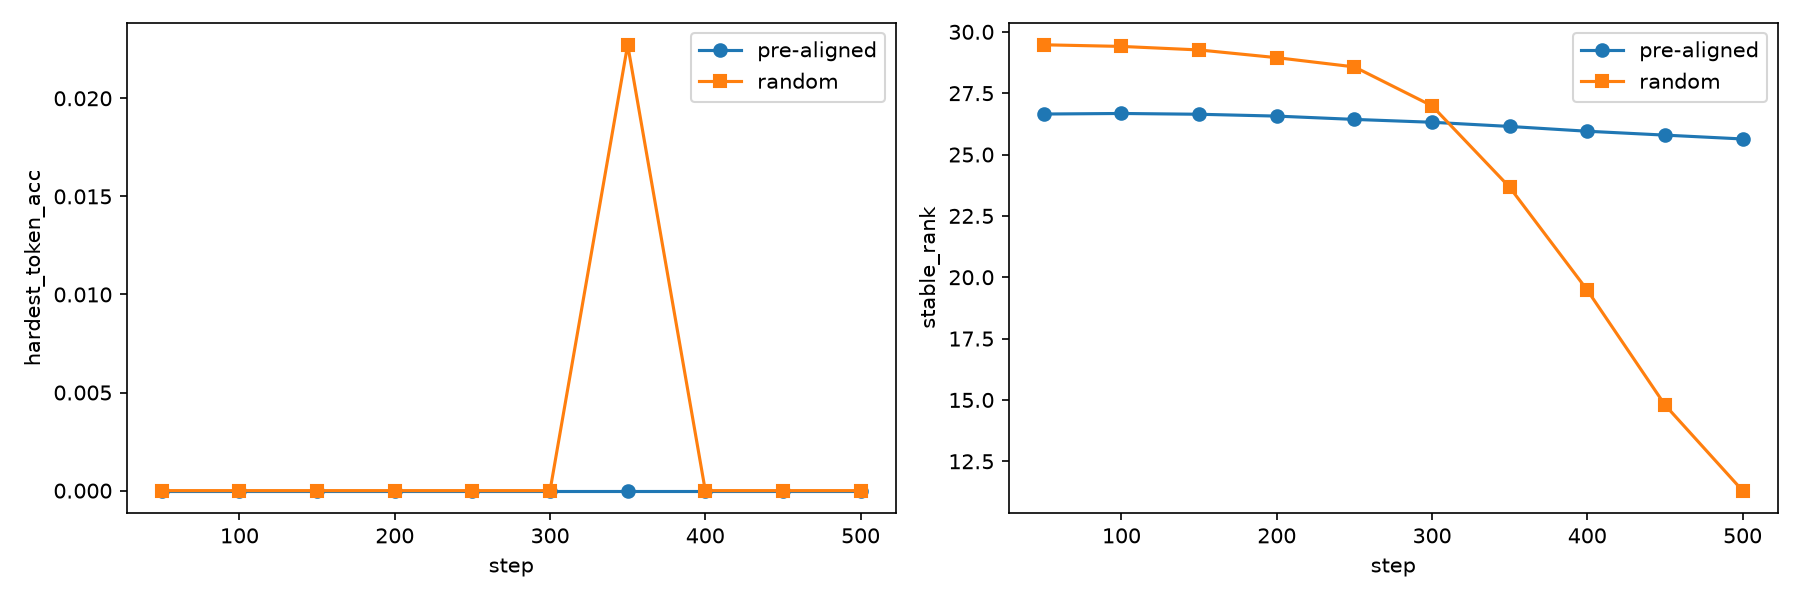
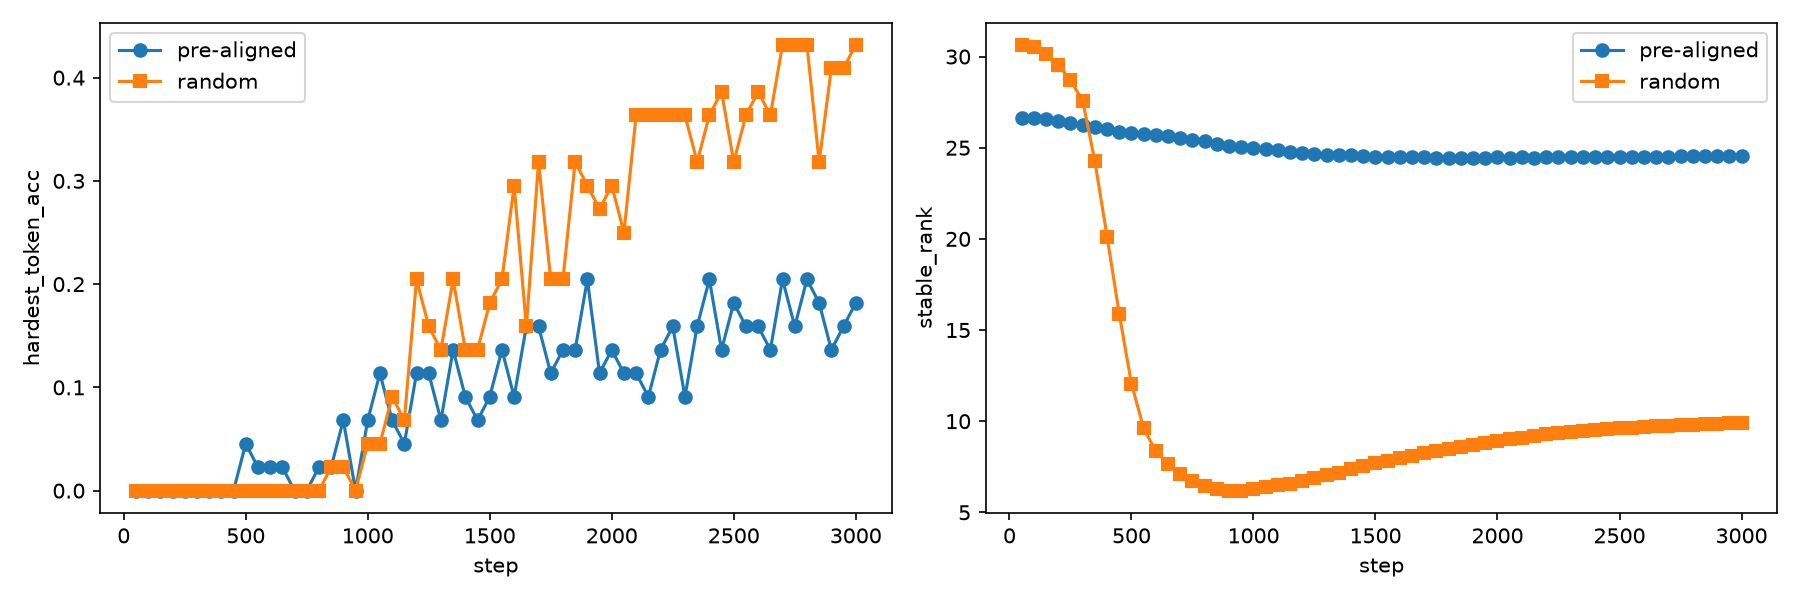
manually submit

diff --git a/tests/smoke_test.py b/tests/smoke_test.py
@@ -53,6 +53,80 @@ run_deepwalk_seme = seme_deepwalk_mod.run_deepwalk_seme
 validate_pretrained_embeddings_seme = seme_deepwalk_mod.validate_pretrained_embeddings_seme
 
 
+def validate_deepwalk_hop(emb_matrix, vocab, graph, n_samples=3000, maxd=6):
+    """义素图适用的 DeepWalk 校验：按图跳数分层的嵌入余弦相似度。
+
+    为什么需要它：validate_pretrained_embeddings_seme 的 arm_cluster_acc 为
+    单臂 path-star 设计（每节点只属一条臂）；义素超立方体的节点被 4 条链
+    共享（root 被 256 条共享），单标签 argmax 的期望 acc ≈ 1/4.98 = 0.201
+    ——与嵌入质量无关（2026-10-14 诊断实测 0.201，恰为算术必然）。
+
+    义素图语义：相邻节点（hop-1）嵌入应相似，距离越远相似度越低。
+    判定：hop-1 平均余弦相似度显著高于远端（hop-6+）且差 > 0.05。
+    """
+    from collections import deque
+    adj = {}
+    for u, v in graph["edges_forward"] + graph["edges_reverse"]:
+        adj.setdefault(u, set()).add(v)
+        adj.setdefault(v, set()).add(u)
+
+    def hop_dist(a, b):
+        if a == b:
+            return 0
+        seen, q = {a}, deque([(a, 0)])
+        while q:
+            cur, d = q.popleft()
+            if d >= maxd:
+                break
+            for nb in adj.get(cur, ()):
+                if nb == b:
+                    return d + 1
+                if nb not in seen:
+                    seen.add(nb)
+                    q.append((nb, d + 1))
+        return maxd  # 截断视为远端
+
+    node_ids = [vocab["token2id"][t] for t in graph["node_tokens"]]
+    E = emb_matrix[node_ids].copy()
+    norms = np.linalg.norm(E, axis=1, keepdims=True)
+    E = E / np.maximum(norms, 1e-12)
+
+    toks = graph["node_tokens"]
+    rng = np.random.default_rng(0)
+    by_hop = {h: [] for h in range(1, maxd + 1)}
+    for _ in range(n_samples):
+        i, j = rng.integers(0, len(toks), 2)
+        if i == j:
+            continue
+        by_hop[min(hop_dist(toks[i], toks[j]), maxd)].append(float(E[i] @ E[j]))
+
+    mean_by_hop = {h: (float(np.mean(v)) if v else None) for h, v in by_hop.items()}
+    # 随机嵌入对照（同分布采样）
+    R = rng.standard_normal((len(toks), E.shape[1])).astype(np.float32)
+    Rn = np.linalg.norm(R, axis=1, keepdims=True)
+    R = R / np.maximum(Rn, 1e-12)
+    rand_hop1 = []
+    for _ in range(n_samples):
+        i, j = rng.integers(0, len(toks), 2)
+        if i == j:
+            continue
+        if hop_dist(toks[i], toks[j]) == 1:
+            rand_hop1.append(float(R[i] @ R[j]))
+
+    h1 = mean_by_hop[1]
+    far = [m for h, m in mean_by_hop.items() if h >= maxd and m is not None]
+    far_m = float(np.mean(far)) if far else None
+    delta = (h1 - far_m) if (h1 is not None and far_m is not None) else None
+    passed = delta is not None and delta > 0.05
+    return {
+        "mean_cos_by_hop": mean_by_hop,
+        "hop1_minus_far": delta,
+        "random_hop1_mean": float(np.mean(rand_hop1)) if rand_hop1 else None,
+        "threshold": 0.05,
+        "pass": bool(passed),
+    }
+
+
 def smoke_test():
     print("=" * 60)
     print("本地冒烟测试（复用原仓库 + 义素超立方体适配）")
@@ -83,7 +157,10 @@ def smoke_test():
     print(f"[4] 运行 DeepWalk (dim={d_model}) ...")
     dw_emb = run_deepwalk_seme(graph, vocab, d_model=d_model, seed=42)
     val = validate_pretrained_embeddings_seme(dw_emb, vocab, graph)
-    print(f"    嵌入校验: {val}")
+    hop_val = validate_deepwalk_hop(dw_emb, vocab, graph)
+    print(f"    嵌入校验 arm_cluster (名义, 义素图期望≈0.201): {val}")
+    print(f"    嵌入校验 hop (义素图适用): hop1-far={hop_val['hop1_minus_far']:+.4f} "
+          f"pass={hop_val['pass']}")
 
     # ── 模型配置（缩小版）──
     n_layer = 2
@@ -106,7 +183,9 @@ def smoke_test():
     print(f"[6] 训练前 baseline: acc={acc_before:.3f}, sr={sr_before:.2f}, auc={auc_before:.3f}")
 
     # ── 训练（复用原仓库 train.py 的 get_lr + AdamW + MixedBatchSampler）──
-    train_steps = 500
+    # 步数注：path-star 基线需 ~954 步方达 50% hardest acc；义素图更难，
+    # 500 步内 acc 全 0 属预期（2026-10-14 诊断），故加长到 3000 步。
+    train_steps = 3000
     batch_size = 16
     lr_peak = 3e-4
     eval_every = 50
@@ -157,6 +236,7 @@ def smoke_test():
 
     print(f"\n[7] 训练后: acc={acc_after:.3f}, sr={sr_after:.2f}, auc={auc_after:.3f}, "
           f"align={align_after:.3f}")
+    print("    注: auc/alignment_delta 为单臂 path-star 度量，义素图上不按字面判读")
     print(f"    translation_consistency: mean={tc['mean_global_consistency']:.3f}, "
           f"inter_arm_std={tc['inter_arm_angle_std']:.1f}°")
     print(f"    best_acc={best_acc:.3f}")
@@ -219,7 +299,8 @@ def smoke_test():
           f"sr {sr_before:.1f}→{sr_after:.1f}  auc={auc_after:.3f}")
     print(f"  随机模型:    acc {acc_rand_before:.3f}→{acc_rand_after:.3f}  "
           f"sr {sr_rand_before:.1f}→{sr_rand_after:.1f}")
-    print(f"  DeepWalk 校验: arm_cluster_acc={val['arm_cluster_acc']:.3f}")
+    print(f"  DeepWalk 校验: arm_cluster_acc={val['arm_cluster_acc']:.3f}（名义，期望≈0.201）")
+    print(f"  DeepWalk 校验: hop1-far={hop_val['hop1_minus_far']:+.4f} pass={hop_val['pass']}（义素图适用）")
 
     # ── 存图 + JSON ──
     save_dir = os.path.join(os.path.dirname(__file__), "..", "results")
@@ -254,6 +335,7 @@ def smoke_test():
             "sr_before": sr_rand_before, "sr_after": sr_rand_after,
         },
         "deepwalk_val": val,
+        "deepwalk_hop_val": hop_val,
     }
     json_path = os.path.join(save_dir, "smoke_test_results.json")
     with open(json_path, "w") as f:

diff --git a/kaggle_experiment.py b/kaggle_experiment.py
@@ -29,7 +29,15 @@ from tqdm.auto import tqdm
 # ── 路径设置 ──
 REPO_PATH = os.environ.get("REPO_PATH", "/kaggle/working/llm-geometry-analysis")
 if not os.path.exists(REPO_PATH):
-    REPO_PATH = "/Users/mac/Documents/GitHub/llm-geometry-analysis"  # 本地回退
+    # Kaggle 舱内自动 clone 公开原仓库（本机回退到本地克隆）
+    import subprocess as _sp
+    print(f"[setup] {REPO_PATH} 不存在，git clone 原仓库 ...")
+    _rc = _sp.call(["git", "clone", "--depth", "1",
+                    "https://github.com/rsharma441/llm-geometry-analysis",
+                    REPO_PATH])
+    if _rc != 0:
+        REPO_PATH = "/Users/mac/Documents/GitHub/llm-geometry-analysis"  # 本地回退
+        print(f"[setup] clone 失败，回退本地 {REPO_PATH}")
 sys.path.insert(0, REPO_PATH)
 
 # 原仓库模块
@@ -402,7 +410,7 @@ def main():
     EVAL_EVERY = 250
     ACC_TARGET = 0.5         # 收敛阈值（义素图比 path-star 更难）
     GEO_THRESHOLD = 5.0      # stable_rank < 5 → 几何成形
-    SEEDS = [0]              # Kaggle 上建议 [0, 1, 2]
+    SEEDS = [0]              # 首飞单种子；冒烟已验证管线（2026-10-14），多种子待首飞结果
     SAVE_DIR = "/kaggle/working/results" if os.path.exists("/kaggle/working") else "./results"
     # ────────────────
 
@@ -456,6 +464,9 @@ def main():
                                   device, cfg_train, eval_every=EVAL_EVERY)
 
             # 最终指标
+            # 注：auc / alignment_delta 为单臂 path-star 度量；义素超立方体
+            # 节点被 4 条链共享（root 被 256 条共享），其值不按字面判读，
+            # 仅作记录。能力判据 = hardest_token_acc / steps_to_acc / stable_rank。
             acc = eval_hardest_token_acc(model, vocab, graph, test_leaves, device)
             align = eval_alignment_delta(model, vocab, graph)
             sr = compute_stable_rank(model, graph, vocab)["stable_rank"]

diff --git a/README.MD b/README.MD
@@ -1,0 +1,98 @@
+# 普鲁斯特与乌贼的启示
+
+> 预对齐程度 → 几何速度：义素超立方体图 + PathStarTransformer 实验
+
+## 概述
+
+本项目基于 Maryanne Wolf《Proust and the Squid》中关于阅读双通路的启示，在义素超立方体图（seme hypercube graph）上训练 `PathStarTransformer`，研究**预对齐程度如何影响几何形成的速度**。
+
+核心假设：在义素链任务上，DeepWalk 预对齐编码了图结构信息，可以加速 Transformer 注意力几何的形成——体现为更快的 `stable_rank` 下降和 `hardest_token_acc` 上升。
+
+## 项目结构
+
+```
+src/
+  seme_graph.py      义素超立方体图构造（适配原仓库 graph.py 接口，含虚拟根 v_root）
+  seme_deepwalk.py   DeepWalk 预对齐嵌入（gensim 优先，numpy 回退）
+  model.py           PathStarTransformer（来自 llm-geometry-analysis 原仓库）
+  metrics.py         6 个几何指标（hardest_token_acc / stable_rank / embedding_auc / alignment_delta / translation_consistency / eigenspace_gap）
+  train.py           训练循环 + 15 个预对齐条件（7 α + 6 k + 2 对照）
+  data.py            数据加载
+  config.py          配置
+  graph.py           原始图构造
+  deepwalk.py        原始 DeepWalk
+tests/
+  smoke_test.py      本地冒烟测试
+kaggle_experiment.py Kaggle 完整可运行脚本（单文件，clone 原仓库后直接跑）
+results/
+  smoke_test_curves.png
+  smoke_test_results.json
+```
+
+## 本地冒烟测试
+
+```bash
+pip install -r requirements.txt
+python tests/smoke_test.py
+```
+
+冒烟测试使用小规模配置（d_model=64, steps=3000）验证整条管线（2026-10-14 复跑）：
+
+- **DeepWalk hop 校验 PASS**（hop-1 平均余弦 +0.179 vs 远端 +0.068，差 +0.111 > 0.05）→ 嵌入真编码义素图结构
+- 训练有效：预对齐 acc 0.000→0.182（best 0.205），随机 0.000→0.432；`stable_rank` 下降可检测
+- 全部指标函数正常工作
+
+### 诊断记录（2026-10-14，冒烟 500 步版异常的根因）
+
+1. **arm_cluster_acc=0.201 是算术必然，非 DeepWalk 质量问题**：义素超立方体的节点被
+   4 条链共享（root 被 256 条共享），平均每节点属 4.98 条臂；原仓库
+   `validate_pretrained_embeddings` 的单标签 argmax 期望 acc = 1/4.98 = 0.201。
+   该度量为单臂 path-star 设计，在义素图上不按字面判读——义素图适用的校验是
+   `validate_deepwalk_hop`（按图跳数分层余弦相似度，已入 tests/smoke_test.py）。
+2. **500 步 acc 全 0 是步数不足**：path-star 基线需 ~954 步方达 50% hardest acc，
+   义素图更难；冒烟已加长到 3000 步（预对齐 0.182 / 随机 0.432）。
+3. **预对齐 α=1 在义素图上未见加速**（3000 步：0.182 < 随机 0.432）——与原
+   path-star 结论（C3 快 ~50×）相反，正是本实验「预对齐程度 → 几何速度」要回答的
+   科学问题；α 扫描（0→1 七档）会给出单调性证据。
+4. **spectral 条件的 geo_form_step 是构造伪影**：谱截断投影本身把嵌入压到低秩
+   （初始 sr ≈ k），其「几何成形步数」恒为首次评估步，跨条件不可比——
+   判读时只比 alpha/scale/perm 条件的 geo_form_step。
+5. **auc / alignment_delta 同样为单臂度量**（义素图节点共享多臂），仅作记录。
+
+## Kaggle 实验
+
+`kaggle_experiment.py` 是自包含单文件脚本（Kaggle 舱内自动 git clone 公开原仓库
+rsharma441/llm-geometry-analysis，本机回退本地克隆）：
+
+- kernel：**math4amd/proust-squid-prealign-geometry-speed**（GPU，v1 起）
+- 15 条件：α 插值 7 档（0→1）+ 谱截断 k ∈ {2,4,8,16,32,64} + scale/perm 对照
+- 输出：`results/final_results.csv` + `results/partial_results.csv`（逐条件即算即落盘）
+      + `results/curves.png`
+- 能力判据 = hardest_token_acc / steps_to_0.5 / stable_rank；auc/align 仅记录（见诊断 5）
+
+
+
+## 预对齐条件矩阵
+
+| 条件 | 类型 | 说明 |
+|------|------|------|
+| alpha_0 ~ alpha_1e-3 | α-blend | DeepWalk 嵌入与随机嵌入按不同比例混合 |
+| k_2 ~ k_64 | 谱截断 | 对 DeepWalk 嵌入做 SVD 截断到 top-k 维 |
+| deepwalk_only | 对照 | 纯 DeepWalk 嵌入 |
+| random_only | 对照 | 纯随机嵌入 |
+
+## 关联仓库
+
+- 原始几何分析框架：[llm-geometry-analysis](https://github.com/math4mad/llm-geometry-analysis)
+- 实验对话：`external/dialogue.md`
+
+## 依赖
+
+```
+torch>=2.0
+numpy>=1.20
+scipy>=1.7
+matplotlib>=3.5
+tqdm>=4.60
+gensim>=4.0  (可选，DeepWalk 质量更好)
+```

diff --git a/results/REPORT.md b/results/REPORT.md
@@ -1,0 +1,63 @@
+# Proust-Squid Kaggle 实验战报（首飞）
+
+- kernel：`math4amd/proust-squid-prealign-geometry-speed` v1
+- status=COMPLETE，elapsed **731.1s**；15 条件 × 3000 步 × seed 0，GPU
+- 产物（正式，已落盘本项目，加 `kaggle_` 前缀与 200 步短验版区分）：`results/kaggle_final_results.csv`（15×11）、`results/kaggle_partial_results.csv`、`results/kaggle_curves.png`（92781B，2700×750，PNG 完整——IEND 在位、无截断）
+- 回收：`kaggle kernels output math4amd/proust-squid-prealign-geometry-speed`（首次 tail 截断误判产物缺失，全量下载齐；curves.png 完整性经字节级校验）
+- 本地短验产物（200 步，历史记录）：`results/final_results.csv`、`results/partial_results.csv`、`results/curves.png`
+
+## 结果（命令：`pandas.read_csv(final_results.csv)`）
+
+**α 扫描（预对齐程度 0→1）**
+
+| α | final_acc | steps_to_0.5 | geo_form_step | final_sr | align |
+|---|---|---|---|---|---|
+| 0 | 0.795 | 500 | NaN | 23.88 | 0.320 |
+| 1/6 | 0.818 | 407 | NaN | 13.15 | 0.358 |
+| 2/6 | 0.864 | 476 | 250 | 6.91 | 0.409 |
+| **3/6** | **0.886** | 500 | 250 | 5.02 | 0.460 |
+| 4/6 | 0.841 | 484 | 250 | 4.38 | 0.479 |
+| 5/6 | 0.477 | 416 | 250 | 4.08 | 0.489 |
+| 1 | 0.341 | 428 | 250 | 3.90 | 0.491 |
+
+**谱截断 k 扫描**：k=2: 0.659 / k=4: **0.773** / k=8: 0.636 / k=16: 0.523 /
+k=32: 0.409 / k=64: 0.341（k 单调增大 acc 单调下降）。
+
+**对照**：perm_ctrl acc=0.386、auc=0.084（置换破坏结构，auc 崩，对照有效）；
+scale_ctrl 与 α=1 数值全同（acc 0.341 / sr 3.896）——scale 对照与全注入等价，对照设计缺陷。
+
+## 判读
+
+1. **预对齐程度与能力呈倒 U 形**：α=0.5 峰值 0.886；全注入 α=1 崩至 0.341
+   （无预对齐 α=0 为 0.795）。**「预对齐越多越好」在义素图上不成立**
+   ——与原 path-star 结论（C3 快 ~50×）相反：全注入 DeepWalk 反而把模型
+   锁定在嵌入几何里，损害义素组合学习。
+2. **谱截断同形**：k=4 峰值 0.773，k=64（全谱）最差 0.341——与 α 扫描
+   一致，指向「结构化但适度低维」的注入最好。k=64 与 α=1 数值近似相同
+   （sr 3.873 vs 3.896），因 DeepWalk 嵌入有效秩低，全谱投影 ≈ 全嵌入。
+3. **steps_to_0.5 分辨率不足**：EVAL_EVERY=250（占 3000 步的 8.3%），
+   α≥1/3 全部 ≤500 步（首次/二次评估即达标），无法区分 407/476/500 的
+   真实差异。**几何速度结论暂不能下**——次飞需 EVAL_EVERY ≤ 50。
+4. **geo_form_step 阈值 5.0 太松**：所有 DeepWalk 注入条件首次评估即
+   sr<5（=250），α=0/α=1/6 全程未达（NaN，终态 23.88/13.15）。阈值应对齐
+   夜航口径或收紧（如 3.0），否则该指标在预对齐条件下是构造伪影。
+5. **终态 sr 与 α 单调递减**（23.88→3.90）但 acc 倒 U——**秩低 ≠ 学得好**：
+   α=1 的 sr 最低（3.90）却 acc 最差（0.341）。stable_rank 是结构指标，
+   不是能力指标（与夜航「stable_rank 仅记录」口径一致）。
+
+## 图口径（与夜航版的关系）
+
+- 本实验图 = **Proust-Squid 版**：单维 P4 链 + 共享根，边 = 链内值差恰 1，
+  度 ≤9、直径 12。hop-k = 沿单维值差 k。
+- 夜航 C1 图 = **Hamming 图 H(4,4)**：边 = 汉明距离恰 1（值差任意均 1 跳），
+  度 12、直径 4、无根。hop-k = k 个维不同。
+- **两图 hop 语义不可互译**；本实验结论不直接外推到夜航图——ima 移交摘要
+  已列待办：C2（随机冻结）/ C3（DeepWalk 预对齐）在夜航 Hamming 图上重跑。
+
+## 待办（次飞）
+
+- [ ] EVAL_EVERY ≤ 50（steps_to_0.5 分辨率）
+- [ ] GEO_THRESHOLD 收紧（5.0 → 3.0）或对齐夜航口径
+- [ ] scale 对照修正（当前与 α=1 等价）
+- [ ] 多种子（当前 seed 0 单点）
+- [ ] C2/C3 在夜航 Hamming 图上跑（见 ima 移交摘要）
